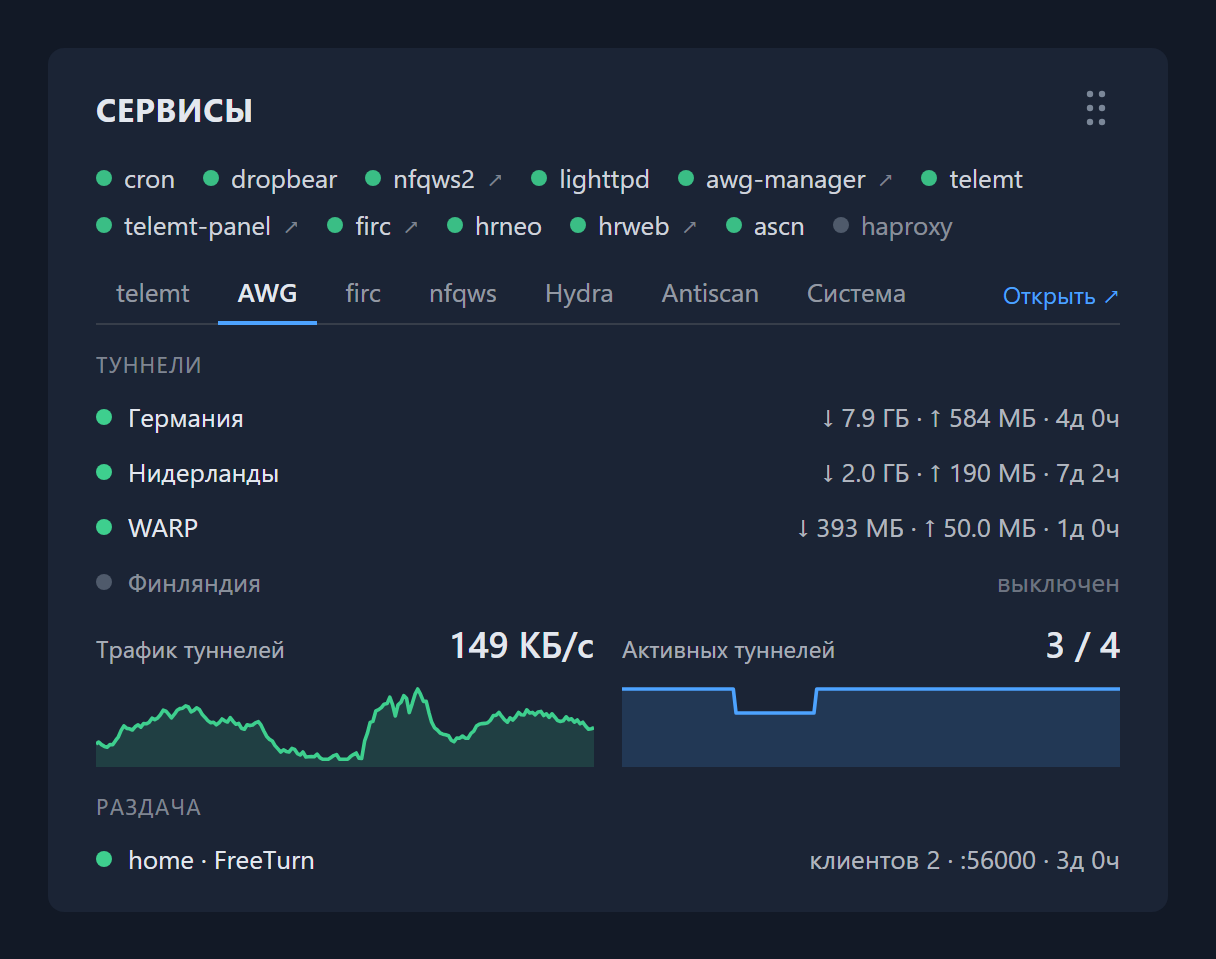
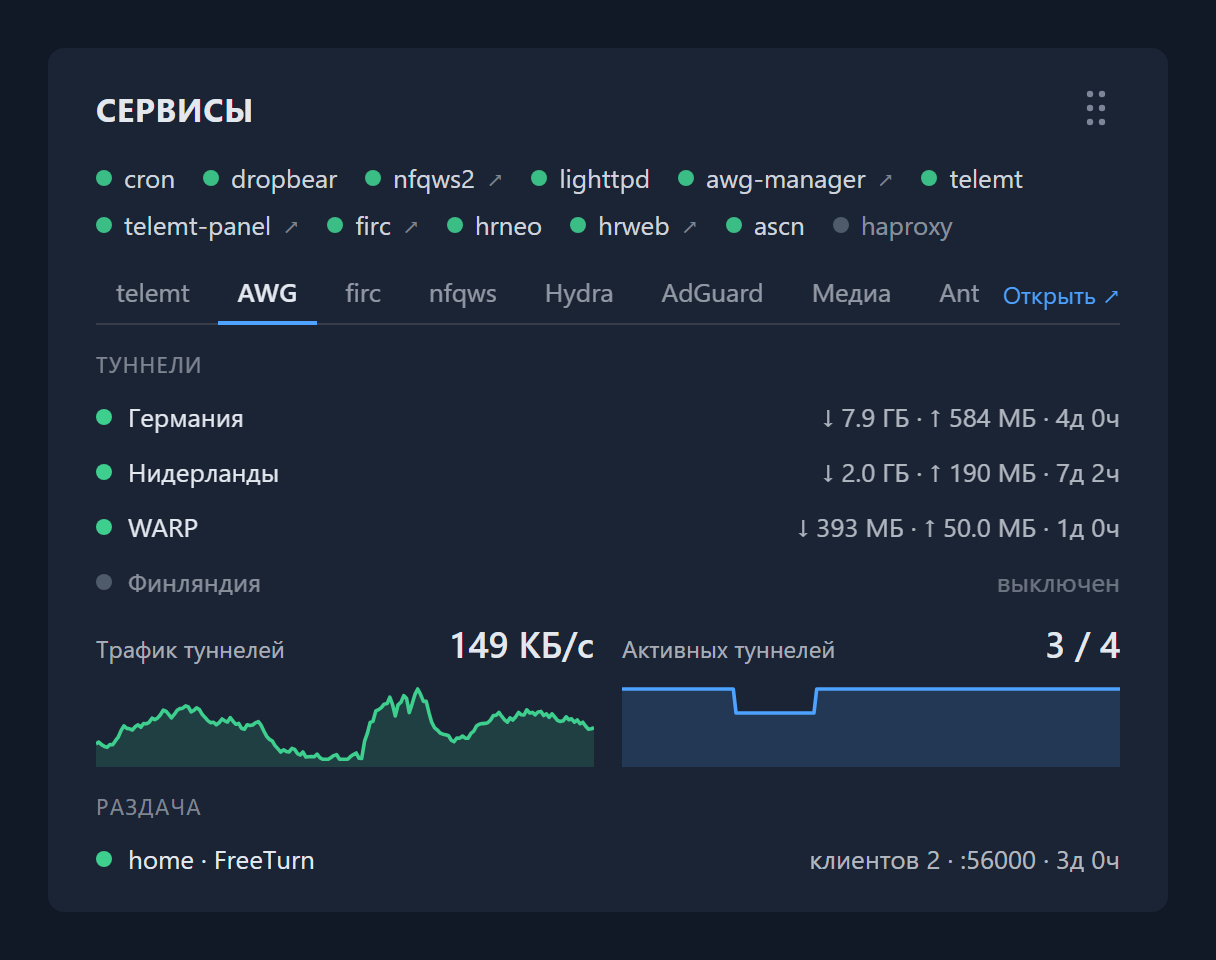
Update README images

diff --git a/README.md b/README.md
@@ -43,6 +43,8 @@
 
 Если на вкладке «Медиа» больше одного сервиса, у каждого своя подвкладка.
 
+<img src="docs/agh.png" width="400" alt="Вкладка AdGuard: запросы и блокировки с графиками, топ заблокированных доменов, клиенты, последние блокировки"> <img src="docs/media.png" width="400" alt="Вкладка «Медиа», подвкладка qBittorrent: скорость загрузки и отдачи, активные загрузки">
+
 </details>
 
 Работает на любых Keenetic с Entware.
